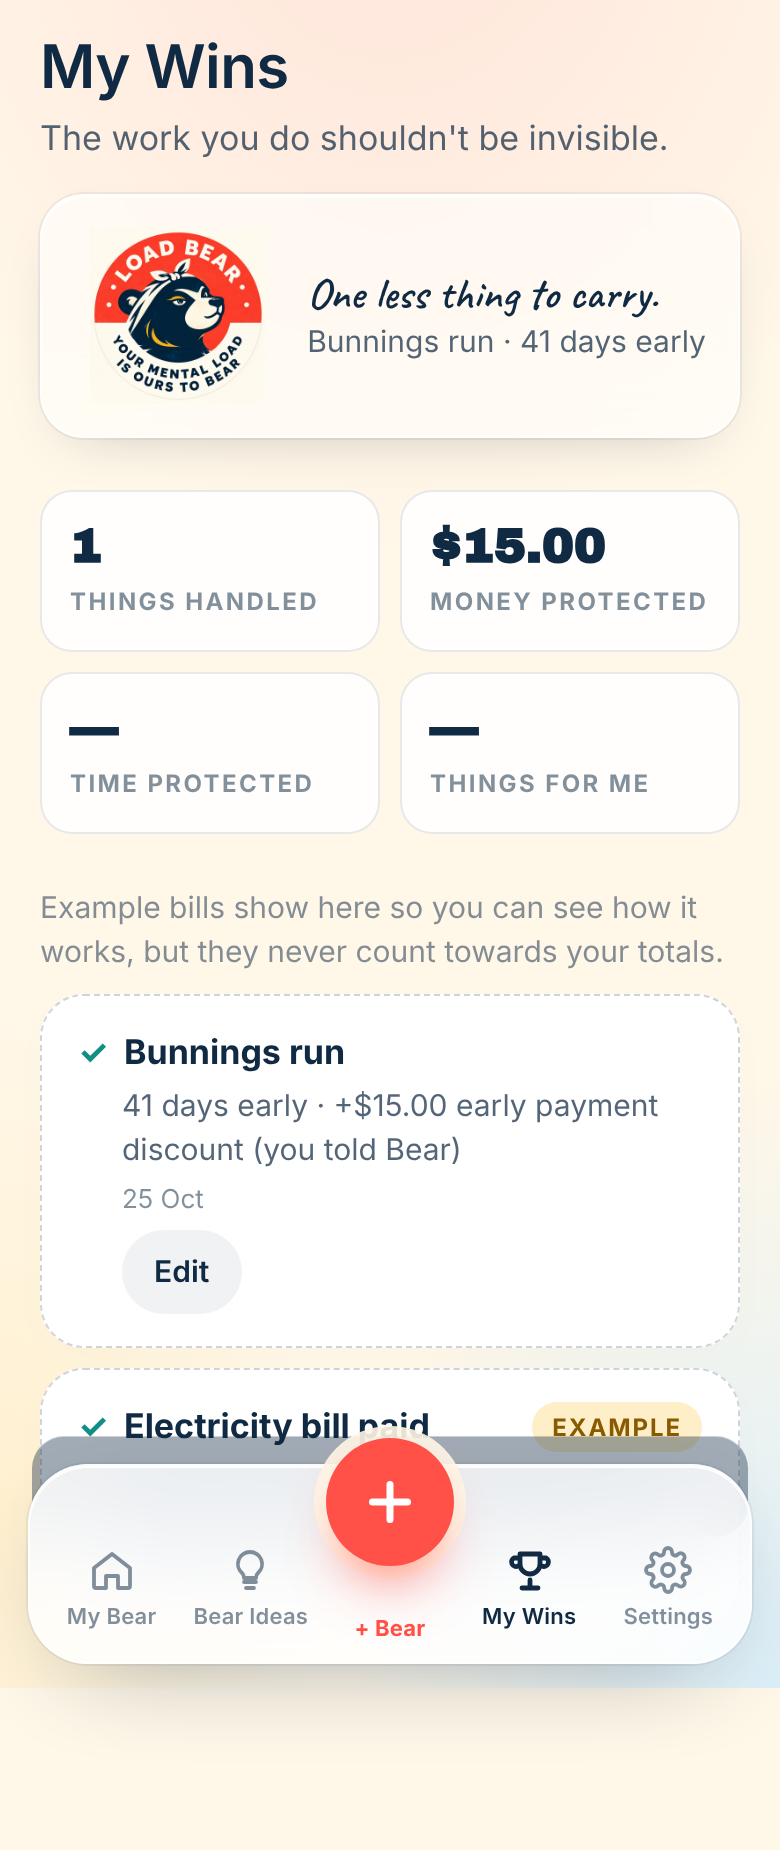
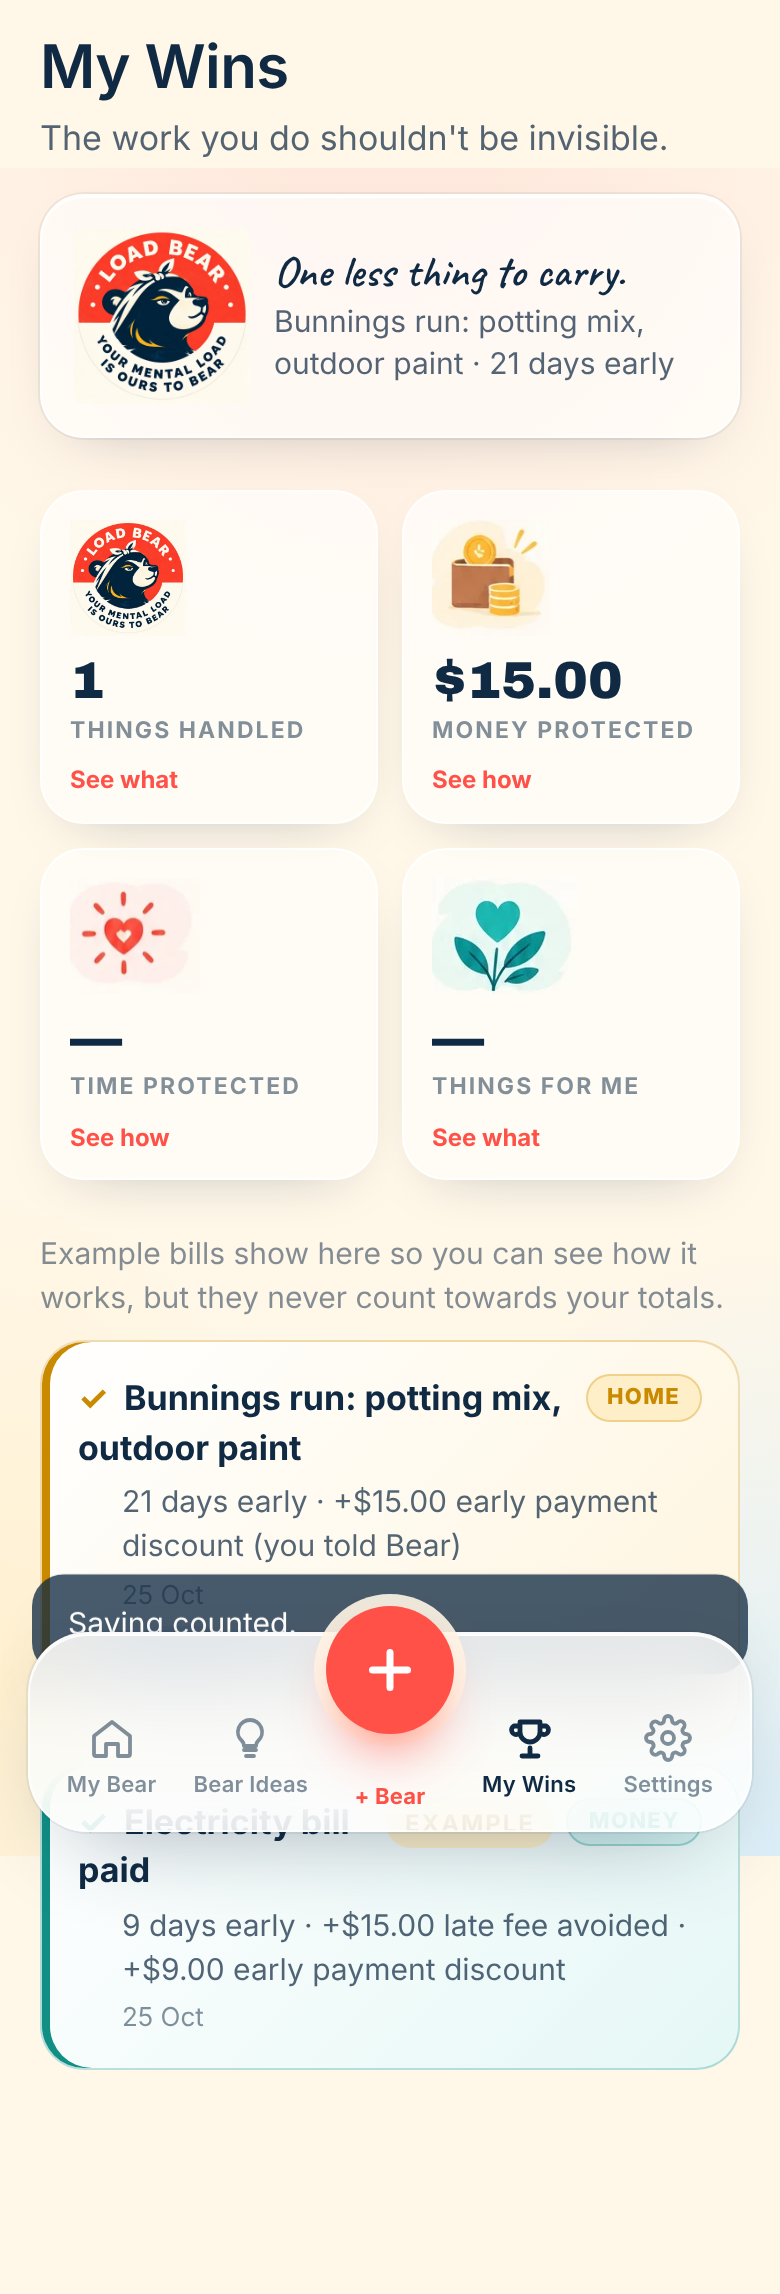
Load Bear: My Wins tiles with artwork and breakdowns; area colour coding; remove tagline
- Four tiles have artwork and open a sheet showing what is behind each number
- Money shows each saving with its reason; time and things for me are only what is real, with honest empty states
- Completed cards are colour coded by area with a small label
- The Bear's got the rest line is removed from My Wins
- Tests and walk-through updated

Claude-Session: https://claude.ai/code/session_01NP3Lwb2Y9rXumsgYeiVjZt

Changed region(s): [[0.0, 0.0, 1.0, 0.9243]]

diff --git a/app/bear/(app)/wins/screen.tsx b/app/bear/(app)/wins/screen.tsx
@@ -7,12 +7,13 @@ import {brand} from '@/lib/bear/domain/copy';
 import {formatAUD} from '@/lib/bear/domain/money';
 import {formatAU} from '@/lib/bear/domain/dates';
 import type {WinsView} from '@/lib/bear/services/wins';
-import {EmptyArt,RoundBadge} from '@/components/bear/art';
+import {Art,EmptyArt,RoundBadge} from '@/components/bear/art';
 import {BearSays} from '@/components/bear/brand';
 import {Button,ErrorCard,Sheet,Skeleton,Toast} from '@/components/bear/ui';
 export function WinsScreen(){
  const router=useRouter();const params=useSearchParams();const just=params.get('just');
  const [data,setData]=useState<WinsView|null>(null);const [error,setError]=useState<string|null>(null);
+ const [metric,setMetric]=useState<null|'handled'|'money'|'time'|'forMe'>(null);
  const [editing,setEditing]=useState<WinsView['cards'][number]|null>(null);const [saved,setSaved]=useState('');const [why,setWhy]=useState('early_discount_used');const [busy,setBusy]=useState(false);const [toast,setToast]=useState<string|null>(null);
  const load=useCallback(()=>apiGet<WinsView>('/api/bear/wins').then(d=>{setData(d);setError(null);}).catch(e=>{if(e.status===401)router.replace('/bear/signin');else setError(e.message);}),[router]);
  useEffect(()=>{load();},[load]);
@@ -29,19 +30,26 @@ export function WinsScreen(){
    {error&&<div style={{marginTop:14}}><ErrorCard message={error} retry={load}/></div>}
    {!data&&!error&&<div className="section"><Skeleton/></div>}
    {data&&<>
-    <div className="totals section" aria-label="Totals">
-     <div className="t"><b>{data.totals.handled}</b><span>Things handled</span></div>
-     <div className="t"><b>{data.totals.moneyCents?formatAUD(data.totals.moneyCents):'—'}</b><span>Money protected</span></div>
-     <div className="t"><b>{minutes?`${Math.floor(minutes/60)}h ${minutes%60}m`:'—'}</b><span>Time protected</span></div>
-     <div className="t"><b>{data.totals.forMe||'—'}</b><span>Things for me</span></div>
+    <div className="metrics section" aria-label="Totals">
+     <button type="button" className="metric" onClick={()=>setMetric('handled')} aria-label={`Things handled: ${data.totals.handled}. See what they were.`}><Art file="badge-round" className="metric-img" alt="" style={{width:58,height:58,borderRadius:'50%',objectFit:'cover',mixBlendMode:'normal'}}/><b>{data.totals.handled}</b><span>Things handled</span><i aria-hidden="true">See what</i></button>
+     <button type="button" className="metric" onClick={()=>setMetric('money')} aria-label="Money protected. See how."><Art file="ledger-wealth" className="metric-img" alt=""/><b>{data.totals.moneyCents?formatAUD(data.totals.moneyCents):'—'}</b><span>Money protected</span><i aria-hidden="true">See how</i></button>
+     <button type="button" className="metric" onClick={()=>setMetric('time')} aria-label="Time protected. See how."><Art file="ledger-happiness" className="metric-img" alt=""/><b>{minutes?`${Math.floor(minutes/60)}h ${minutes%60}m`:'—'}</b><span>Time protected</span><i aria-hidden="true">See how</i></button>
+     <button type="button" className="metric" onClick={()=>setMetric('forMe')} aria-label="Things for me. See what."><Art file="ledger-health" className="metric-img" alt=""/><b>{data.totals.forMe||'—'}</b><span>Things for me</span><i aria-hidden="true">See what</i></button>
     </div>
     <div className="section">
      {data.cards.length===0&&<div className="card" style={{textAlign:'center'}}><EmptyArt file="empty-wins"/><p style={{fontWeight:700,fontSize:19}}>{brand.winsEmpty}</p><p className="muted small" style={{marginTop:4}}>{brand.winsSub}</p><BearSays size={22}>{brand.oneLess}</BearSays></div>}
      {data.cards.some(c=>c.isDemo)&&<p className="faint" style={{marginBottom:10}}>Example bills show here so you can see how it works, but they never count towards your totals.</p>}
-     {data.cards.map(c=><div key={c.id} className="receipt"><div style={{display:'flex',justifyContent:'space-between',gap:10}}><p><span className="tick" aria-hidden="true">✓</span><strong>{c.title}</strong></p>{c.isDemo&&<span className="demo-tag">Example</span>}</div><p className="small muted" style={{marginTop:4,paddingLeft:22}}>{c.detail}</p><p className="tiny faint" style={{marginTop:4,paddingLeft:22}}>{formatAU(c.when.slice(0,10),'short')}</p>{!c.isDemo&&c.taskId&&<div className="btn-row" style={{paddingLeft:22,marginTop:6}}><Button className="sm" variant="ghost" onClick={()=>openEdit(c)}>Edit</Button></div>}</div>)}
+     {data.cards.map(c=><div key={c.id} className="receipt" data-area={c.areaKey}><div style={{display:'flex',justifyContent:'space-between',gap:10,alignItems:'flex-start'}}><p><span className="tick" aria-hidden="true">✓</span><strong>{c.title}</strong></p><span style={{display:'flex',gap:6,alignItems:'center',flex:'none'}}>{c.isDemo&&<span className="demo-tag">Example</span>}<span className="area-pill">{c.areaLabel}</span></span></div><p className="small muted" style={{marginTop:4,paddingLeft:22}}>{c.detail}</p><p className="tiny faint" style={{marginTop:4,paddingLeft:22}}>{formatAU(c.when.slice(0,10),'short')}</p>{!c.isDemo&&c.taskId&&<div className="btn-row" style={{paddingLeft:22,marginTop:6}}><Button className="sm" variant="ghost" onClick={()=>openEdit(c)}>Edit</Button></div>}</div>)}
      {data.reinforcement&&<BearSays size={22}>{data.reinforcement}</BearSays>}
     </div>
    </>}
+   {metric&&<Sheet onClose={()=>setMetric(null)} label="Details">
+    {metric==='handled'&&<><h2>Things handled</h2><p className="muted small" style={{marginTop:6}}>Everything you and Bear have finished. Examples never count.</p><div className="metric-list">{data!.cards.filter(c=>!c.isDemo).length===0?<p className="muted">Nothing finished yet. When you mark something done, it lands here.</p>:data!.cards.filter(c=>!c.isDemo).map(c=><div key={c.id} className="metric-row" data-area={c.areaKey}><span><strong>{c.title}</strong><br/><span className="small muted">{c.detail}</span></span><span className="area-pill">{c.areaLabel}</span></div>)}</div></>}
+    {metric==='money'&&<><h2>Money protected</h2><p className="muted small" style={{marginTop:6}}>Counted only when a bill states a late fee or discount you earned, or when you told Bear about a saving. Bear never guesses an amount.</p><div className="metric-list">{data!.breakdown.money.length===0?<p className="muted">Nothing counted yet. Pay a bill with a stated fee or discount in time, or tell Bear about a saving from My Wins, and it appears here.</p>:data!.breakdown.money.map((m,i)=><div key={i} className="metric-row"><span><strong>{m.reason}</strong>{m.mine?' (you told Bear)':''}<br/><span className="small muted">{m.label} · {formatAU(m.when.slice(0,10),'short')}</span></span><b>{formatAUD(m.cents)}</b></div>)}{data!.breakdown.money.length>0&&<div className="metric-row total"><span><strong>Total</strong></span><b>{formatAUD(data!.totals.moneyCents)}</b></div>}</div></>}
+    {metric==='time'&&<><h2>Time protected</h2><p className="muted small" style={{marginTop:6}}>Time is only counted when Bear can measure it. It never makes up a number.</p><div className="metric-list">{data!.breakdown.time.length===0?<p className="muted">Nothing counted yet. This fills in as Bear learns how long things really take you.</p>:data!.breakdown.time.map((m,i)=><div key={i} className="metric-row"><span><strong>{m.label}</strong><br/><span className="small muted">{formatAU(m.when.slice(0,10),'short')}</span></span><b>{m.minutes} min</b></div>)}</div></>}
+    {metric==='forMe'&&<><h2>Things for me</h2><p className="muted small" style={{marginTop:6}}>Things you did for yourself, like your own appointments.</p><div className="metric-list">{data!.breakdown.forMe.length===0?<p className="muted">Nothing yet. When you finish something that is just for you, it is counted here.</p>:data!.breakdown.forMe.map((m,i)=><div key={i} className="metric-row"><span><strong>{m.title}</strong><br/><span className="small muted">{formatAU(m.when.slice(0,10),'short')}</span></span></div>)}</div></>}
+    <div className="btn-stack"><Button variant="quiet" onClick={()=>setMetric(null)}>Close</Button></div>
+   </Sheet>}
    {editing&&<Sheet onClose={()=>setEditing(null)} label="Edit this win">
     <h2>{editing.title}</h2><p className="muted small" style={{marginTop:6}}>{editing.detail}</p>
     {editing.counted.length>0&&<div className="note plain" style={{marginTop:12}}><div><p style={{fontWeight:600}}>Counted so far</p><ul style={{margin:'6px 0 0 18px',padding:0}}>{editing.counted.map((x,i)=><li key={i} className="small">{formatAUD(x.cents)} · {x.label}{x.mine?' (you told Bear)':''}</li>)}</ul></div></div>}

diff --git a/lib/bear/services/wins.ts b/lib/bear/services/wins.ts
@@ -1,15 +1,18 @@
 import {formatAUD} from '../domain/money.ts';
+import {areaLabels} from '../domain/labels.ts';
+const reasonText:Record<string,string>={late_fee_avoided:'Late fee avoided',early_discount_used:'Early payment discount',discount_used:'Discount used',better_price:'Better price',subscription_cancelled:'Subscription cancelled',duplicate_charge:'Duplicate charge found'};
 import type {BearStore} from '../store/store.ts';
 // My Wins: a visual receipt for invisible labour, not a completed-task list.
-export interface WinsView{totals:{handled:number;moneyCents:number;timeMinutes:number;forMe:number};cards:{id:string;title:string;detail:string;amount:string|null;when:string;isDemo:boolean;taskId:string|null;billId:string|null;counted:{label:string;cents:number;mine:boolean}[]}[];reinforcement:string|null}
+export interface WinsView{totals:{handled:number;moneyCents:number;timeMinutes:number;forMe:number};cards:{id:string;title:string;detail:string;amount:string|null;when:string;isDemo:boolean;taskId:string|null;billId:string|null;areaKey:string;areaLabel:string;counted:{label:string;cents:number;mine:boolean}[]}[];breakdown:{money:{label:string;cents:number;reason:string;when:string;mine:boolean}[];time:{label:string;minutes:number;when:string}[];forMe:{title:string;when:string}[]};reinforcement:string|null}
 export async function winsView(store:BearStore):Promise<WinsView>{
  const wins=await store.list('wins',{orderBy:{column:'created_at',ascending:false},limit:100});
  const ledger=await store.list('value_ledger',{orderBy:{column:'occurred_at',ascending:false},limit:300});
  // Example data is shown on its card but never counted in the totals.
  const moneyCents=ledger.filter(r=>r.kind==='wealth'&&r.defensible&&!r.isDemo).reduce((s,r)=>s+(r.amountCents||0),0);
  const timeMinutes=ledger.filter(r=>r.kind==='happiness'&&!r.isDemo).reduce((s,r)=>s+(r.minutes||0),0);
- const forMe=ledger.filter(r=>r.kind==='health'&&!r.isDemo).length;
+ const meWins=wins.filter(w=>w.category==='me'&&!w.isDemo);const forMeEntries=ledger.filter(r=>r.kind==='health'&&!r.isDemo);const forMe=meWins.length+forMeEntries.length;
  const completions=new Map((await store.list('completions',{limit:300})).map(c=>[c.id,c.taskId]));
- const lines=['One less thing to carry.',"Bear's got the rest.","That's sorted."];
- return {totals:{handled:wins.filter(w=>!w.isDemo).length,moneyCents,timeMinutes,forMe},cards:wins.map(w=>{const taskId=completions.get(w.completionId)||null;return {id:w.id,title:w.title,detail:w.detail,amount:w.amountCents?'+'+formatAUD(w.amountCents):null,when:w.createdAt,isDemo:w.isDemo,taskId,billId:w.billId,counted:ledger.filter(r=>r.kind==='wealth'&&r.defensible&&taskId&&r.sourceTaskId===taskId).map(r=>({label:r.label,cents:r.amountCents||0,mine:r.source==='user'}))};}),reinforcement:wins.length&&wins.length%3===1?lines[wins.length%lines.length]:null};
+ const [tasks,projects]=await Promise.all([store.list('tasks'),store.list('projects')]);const areaOfTask=new Map(tasks.map(t=>[t.id,projects.find(p=>p.id===t.projectId)?.areaKey||'me']));
+ const lines=['One less thing to carry.',"That's sorted."];
+ return {totals:{handled:wins.filter(w=>!w.isDemo).length,moneyCents,timeMinutes,forMe},cards:wins.map(w=>{const taskId=completions.get(w.completionId)||null;const areaKey=(taskId&&areaOfTask.get(taskId))||(w.billId?'money':'me');return {areaKey,areaLabel:areaLabels[areaKey]||'Me',id:w.id,title:w.title,detail:w.detail,amount:w.amountCents?'+'+formatAUD(w.amountCents):null,when:w.createdAt,isDemo:w.isDemo,taskId,billId:w.billId,counted:ledger.filter(r=>r.kind==='wealth'&&r.defensible&&taskId&&r.sourceTaskId===taskId).map(r=>({label:r.label,cents:r.amountCents||0,mine:r.source==='user'}))};}),breakdown:{money:ledger.filter(r=>r.kind==='wealth'&&r.defensible&&!r.isDemo).map(r=>({label:r.label,cents:r.amountCents||0,reason:reasonText[r.reason]||r.reason,when:r.occurredAt,mine:r.source==='user'})),time:ledger.filter(r=>r.kind==='happiness'&&!r.isDemo).map(r=>({label:r.label,minutes:r.minutes||0,when:r.occurredAt})),forMe:[...meWins.map(w=>({title:w.title,when:w.createdAt})),...forMeEntries.map(r=>({title:r.label,when:r.occurredAt}))]},reinforcement:wins.length&&wins.length%3===1?lines[wins.length%lines.length]:null};
 }

diff --git a/app/bear/bear.css b/app/bear/bear.css
@@ -283,3 +283,28 @@
 .bear .alert-row b{font-weight:700;color:var(--navy);}
 .bear .overdue-text{color:#D8352B;font-weight:700;}
 .bear .pill.overdue{background:#FFE1DE;color:#B42318;}
+
+/* My Wins: picture tiles you can open, and area colour coding */
+.bear .metrics{display:grid;grid-template-columns:repeat(2,1fr);gap:12px;}
+.bear .metric{position:relative;display:flex;flex-direction:column;align-items:flex-start;gap:2px;padding:14px 14px 12px;text-align:left;border-radius:var(--r-lg);background:var(--glass);border:1px solid var(--glass-border);box-shadow:var(--glass-shadow);color:inherit;overflow:hidden;transition:transform .15s,box-shadow .2s;}
+.bear .metric:active{transform:scale(.98);}
+.bear .metric-img{display:block;width:100%;height:58px;object-fit:contain;object-position:left center;margin-bottom:6px;mix-blend-mode:multiply;}
+.bear .metric b{display:block;font-family:var(--font-display);font-weight:400;font-size:26px;line-height:1.1;color:var(--navy);}
+.bear .metric span{font-size:11.5px;letter-spacing:.09em;text-transform:uppercase;color:var(--ink-3);font-weight:700;}
+.bear .metric i{font-style:normal;margin-top:6px;font-size:12px;font-weight:700;color:var(--coral);}
+.bear [data-area]{--ac:#7A63D1;--at:#E4DDFB;}
+.bear [data-area="work"]{--ac:#2F7DB8;--at:#E3F1FB;}
+.bear [data-area="family"]{--ac:#E8505B;--at:#FFE6E7;}
+.bear [data-area="home"]{--ac:#C98A00;--at:#FFEFC9;}
+.bear [data-area="money"]{--ac:#118F85;--at:#D5F3F0;}
+.bear [data-area="health"]{--ac:#E5603F;--at:#FFE1DE;}
+.bear [data-area="me"]{--ac:#7A63D1;--at:#E4DDFB;}
+.bear .receipt[data-area]{background:linear-gradient(135deg,#fff 0%,var(--at) 160%);border:1px solid color-mix(in srgb,var(--ac) 28%,transparent);box-shadow:inset 4px 0 0 var(--ac);}
+.bear .receipt[data-area] .tick{color:var(--ac);}
+.bear .area-pill{display:inline-block;padding:3px 10px;border-radius:999px;background:var(--at);color:var(--ac);font-size:11px;font-weight:800;letter-spacing:.06em;text-transform:uppercase;border:1px solid color-mix(in srgb,var(--ac) 30%,transparent);white-space:nowrap;}
+.bear .metric-list{margin-top:12px;display:flex;flex-direction:column;}
+.bear .metric-row{display:flex;justify-content:space-between;align-items:center;gap:12px;padding:12px 0 12px 12px;border-top:1px solid var(--line);}
+.bear .metric-row:first-child{border-top:0;}
+.bear .metric-row[data-area]{box-shadow:inset 3px 0 0 var(--ac);}
+.bear .metric-row.total{border-top:2px solid var(--line);}
+.bear .metric-row b{font-family:var(--font-display);font-weight:400;font-size:19px;color:var(--navy);}

diff --git a/lib/bear/domain/copy.ts b/lib/bear/domain/copy.ts
@@ -11,7 +11,7 @@ export const brand={
  winsHeading:'My Wins',winsSub:"The work you do shouldn't be invisible.",winsEmpty:'Your wins will show up here.',
  ideasHeading:'Bear noticed…',ideasEmpty:"Nothing to suggest right now. When Bear notices a pattern worth acting on, it'll show up here.",
  chaosReply:"Got you. I'll only bring you things that genuinely can't wait.",
- reinforcement:['One less thing to carry.',"Bear's got the rest.","That's sorted."],
+ reinforcement:['One less thing to carry.',"That's sorted."],
 };
 export const banned=/overdue!|you missed|you still haven|tasks overdue/i;
 export function greeting(hour:number,name:string){const part=hour<12?'Good morning':hour<17?'Good afternoon':'Good evening';return name?`${part}, ${name}.`:`${part}.`;}

diff --git a/BUILD_STATUS.md b/BUILD_STATUS.md
@@ -5,6 +5,7 @@ Last updated: 25 October 2026.
 ## Completed
 - Brand board studied; visual system documented (`docs/load-bear/00-visual-system.md`).
 - Architecture, data model, extraction schema, vertical slice, milestones and external configuration documented (`docs/load-bear/01`–`06`).
+- **My Wins tiles and colour coding (26 Oct):** the four tiles (things handled, money protected, time protected, things for me) have artwork and open a sheet showing exactly what is behind each number: handled things, each saving with its reason and whether you told Bear, time that was actually measured, and things for you. Empty ones say honestly why. Completed cards are colour coded by area with a small label. The "Bear's got the rest" line is removed from My Wins. 200 tests.
 - **Low-pressure tasks, overdue alerts, handling banner (26 Oct):** Bear reads every task two ways and shows its reading on one compact card with one-tap changes: time-sensitive or no rush, and one go or bigger. Only time-sensitive tasks get planned reminder times; "no rush" tasks never get a date or time unless the person picks "now and then" (every week, fortnight or month, with gentle wording and no escalation) or a day of their own, or chooses no reminders. Bigger tasks are broken into small steps by the AI service. Capture now has a type-straight-away box (no menu step), bills are planned automatically once checked (no plan sheet), tasks need no verify screen, and onboarding can be skipped at any step. Anything time-sensitive that is past its date is flagged clearly at the top of My Bear, in Needs you, in its area, on its own page and on the check screen when it is uploaded already late; "no rush" items can never be overdue. Bear's handling is now a banner with three numbers (bills watched, things held, reminders set), bear on the left, placed last with space above the nav. Area tiles use full-width artwork. 198 tests.
 - **Separate purchases and a wishlist (25 Oct):** splitting a list now makes real separate tasks (2 to 6, each with its own project, items, cost, date and reminder, shown as "Part 2 of 5"; the original is archived and each purchase is counted in My Wins on its own). For a spend of $200 or more Bear asks once when it will be comfortable to buy: now, on a date, or not sure, in which case it offers to check back in 2 weeks, a month or 3 months, or just wishlist it. Anything but "now" moves the item to a Wishlist that lives as one small tile inside Your areas (only when it has something), stays off the busy screens, and comes back as one reminder on the check-back day. Prices can be typed after an item in the edit box ("drill bits $25"). Tasks Bear sets up no longer pop open the reminder sheet by themselves; a small "Set a reminder" button is there instead. 187 tests.
 - **Changing banner (25 Oct):** the My Bear banner is now a short greeting plus one line, with the picture fixed to its own right-hand column so it can never be squeezed. The picture and line change on every visit, chosen from the artwork library for the time of day and the day mode (Wiped and Chaos days only get gentle lines), never repeating the last one. The name now comes from the login (sign-up name or Google profile) and is saved automatically; the banner no longer asks for it (Settings can still change it). 182 tests.
@@ -15,7 +16,7 @@ Last updated: 25 October 2026.
 - **P0 bill workflow, end to end and real:** sign-in → onboarding (Areas, People, PINS, Life Rhythm, Capacity) → Give it to Bear (text, typed, photo, screenshot, PDF) → Bear-thinking extraction (rule-based always; Anthropic vision when a key exists) with per-field confidence and provenance → "Have I got this right?" with specific questions for uncertain fields and user corrections recorded → Area/Project/Task/Bill creation with warranted dependencies → reminder plan from the capacity map and coordination engine → reminders actually scheduled (rows + in-app delivery + local notification + Web Push when configured) → notification decision engine (no guilt, quiet hours, day mode, deferral changes the plan) → assistance (payment page, BPAY, copy reference, original bill, explain, draft a question) → mark paid → Completion, Win, defensible Wealth entry, recurring expectation → My Wins, My Bear ledgers → Bear Ideas (recurring, discount, increase, related areas, missing expected; "Not relevant" trains suppression).
 - Chaos Mode (How's today?), first-run example bill clearly labelled and excluded from totals, empty/loading/error/offline states, accessibility basics (labels, focus rings, reduced motion, large targets, no colour-only meaning).
 - Supabase migration for 21 `bear_*` tables with owner-only RLS and a private `bear-documents` bucket; request-scoped Supabase store; in-memory store for tests and local development.
-- Tests: 198 passing (vertical slice, edge cases, extractor, decision engine, capacity, coordination, store isolation). TypeScript, lint and production build clean. 27-step Chromium walk-through of the real screens passes (`docs/load-bear/07-verification.md`).
+- Tests: 200 passing (vertical slice, edge cases, extractor, decision engine, capacity, coordination, store isolation). TypeScript, lint and production build clean. 27-step Chromium walk-through of the real screens passes (`docs/load-bear/07-verification.md`).
 - Cron delivery route + Vercel cron (hourly) + GitHub Actions workflow (15-minute) for push reminders.
 
 ## In progress
